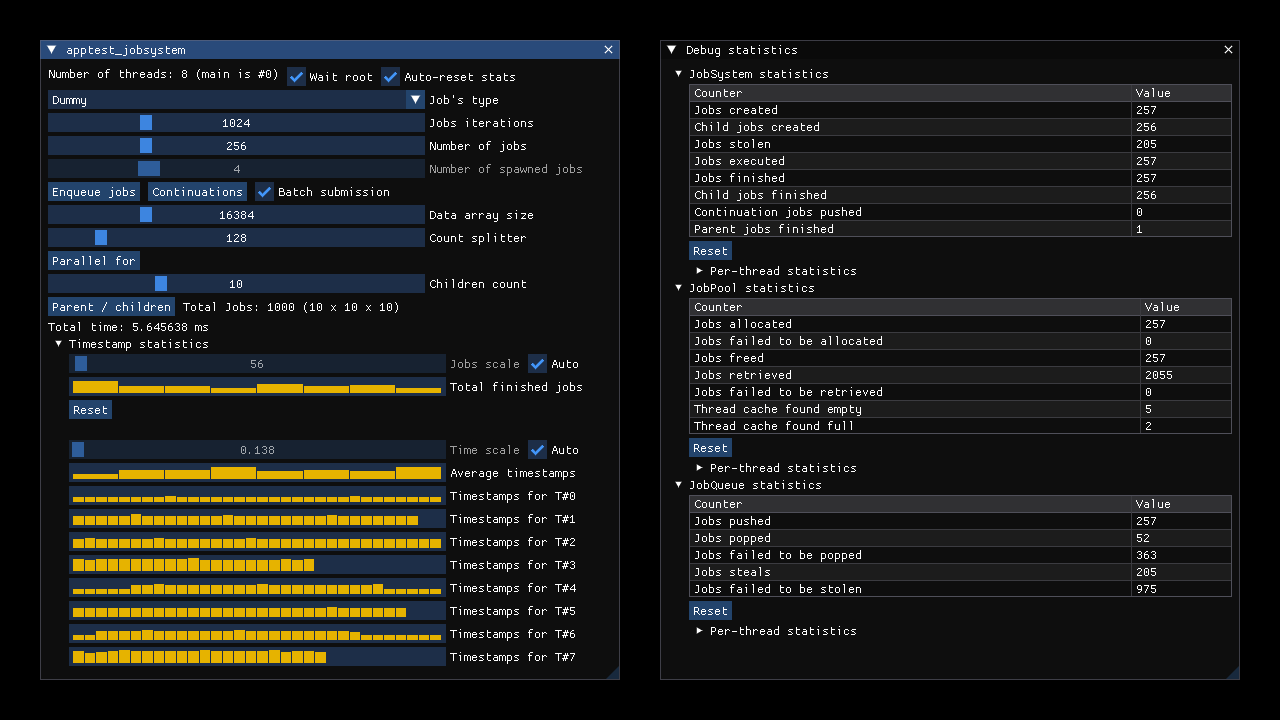
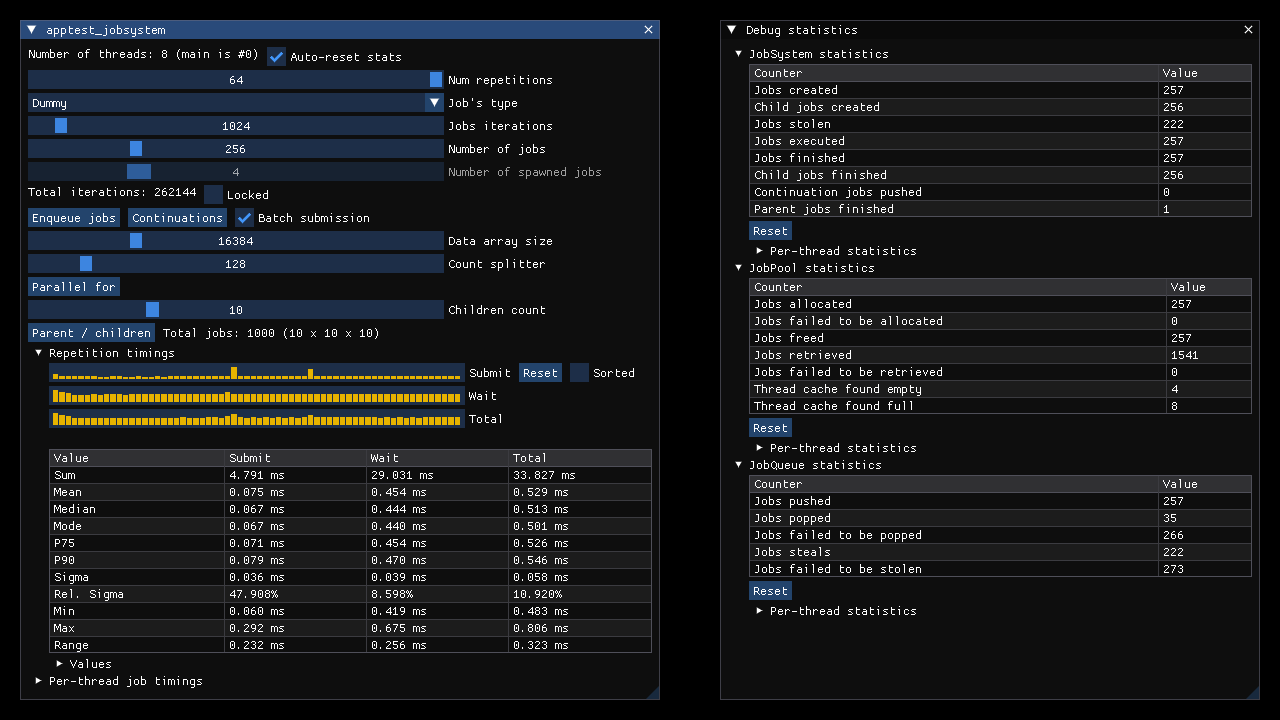
Add a GnuPG public key page and footer menu entry
- Add a news page about the /dev/games video release
- Update the yearly changelog page with latest changes
- Update the job system and SIMD bench apptest screenshots

diff --git a/content/gpg.md b/content/gpg.md
@@ -1,0 +1,40 @@
+---
+title: GnuPG Public Key
+showDate: false
+showReadingTime: false
+sharingLinks: false
+showPagination : false
+showComments: false
+---
+
+nCine's commits are signed using the author's GnuPG public key.
+
+The same key is also published on [encelo.github.io](https://encelo.github.io/gpg/), [GitHub](https://github.com/encelo.gpg), [keys.openpgp.org](https://keys.openpgp.org/vks/v1/by-fingerprint/387CDEFE8A87AEB328978C80728985A18FEE4962), and [keyserver.ubuntu.com](https://keyserver.ubuntu.com/pks/lookup?op=get&search=0x387cdefe8a87aeb328978c80728985a18fee4962).
+
+**Fingerprint**: `387C DEFE 8A87 AEB3 2897 8C80 7289 85A1 8FEE 4962`
+
+```
+-----BEGIN PGP PUBLIC KEY BLOCK-----
+
[18 lines of base64/hex data omitted]
+ale7w5HwiNr4P3FwoxtrlB5geggE
+=KP+Z
+-----END PGP PUBLIC KEY BLOCK-----
+```

diff --git a/content/changelog/year_2025.md b/content/changelog/year_2025.md
@@ -3,6 +3,40 @@ title: 2025
 date: "2025-01-01"
 ---
 
+## December 2025
+
+### Breaking Changes
+- Removed `FIXED_CAPACITY` mode from the `String` class
+
+### Improvements
+
+- Added a new `StringView` class to operate over C-style character arrays
+- The small size optimization for strings now works for strings of 24 characters long
+- It's now possible to set the resizable flag of a window after it has been created
+- Dependency libraries are now copied in all nCine and project artifacts for Linux
+- The version of the integrated Tracy has been updated to [v0.13.1](https://github.com/wolfpld/tracy/releases/tag/v0.13.1)
+
+### New Features
+
+- Added an option to compile a smaller version of the nCine library by removing support for the scenegraph
+
+## November 2025
+
+### New Features
+
+- The `job_system` branch has been finally merged into `master`
+
+### Improvements
+
+- The version of the integrated ImGui has been updated to [v1.92.5](https://github.com/ocornut/imgui/releases/tag/v1.92.5)
+- The version of the integrated Tracy has been updated to [v0.13.0](https://github.com/wolfpld/tracy/releases/tag/v0.13.0)
+
+## October 2025
+
+### Improvements
+
+- The version of the integrated ImGui has been updated to [v1.92.4](https://github.com/ocornut/imgui/releases/tag/v1.92.4)
+
 ## September 2025
 
 ### Improvements

diff --git a/content/news/2025-11-05-signed-commits.md b/content/news/2025-11-05-signed-commits.md
@@ -1,0 +1,15 @@
+---
+date: "2025-11-05"
+title: Signed Commits
+description: Verified GitHub commits for the nCine projects
+categories: [ News ]
+---
+
+Starting today, all nCine-related repositories will feature [verified commits](https://docs.github.com/en/authentication/managing-commit-signature-verification) on GitHub.
+
+This allows anyone to confirm that changes to the codebase are authentic and originate from the [project maintainer](https://encelo.github.io/).
+The signing key is published on the site and can be found at the following page: [GnuPG Public Key](/gpg).
+
+The associated private subkeys are stored on a hardware security token (a YubiKey 5C NFC), which ensures that the signing keys cannot be copied or extracted from the device.
+
+This is part of an ongoing effort to strengthen the project's supply chain integrity and provide long-term trust in the history of the repositories.

diff --git a/content/news/2025-11-19-dev-games-2025-video.md b/content/news/2025-11-19-dev-games-2025-video.md
@@ -1,0 +1,15 @@
+---
+date: "2025-06-05"
+title: Video from /dev/games
+description: My nCine presentation recording
+categories: [ News ]
+tags: [ Presentation ]
+---
+
+On June 5th I attended [/dev/games](https://devgames.org), a two-day game development conference held in Rome.
+
+Now, after five months, the recording of the talk about my 14-year journey developing nCine, has been published on YouTube on the official conference [channel](https://www.youtube.com/@devgamesconf).
+
+You can check out online the [slides](https://encelo.github.io/nCine_14Years_Presentation/) or download a [PDF version](https://encelo.github.io/nCine_14Years_Presentation/nCine_14Years.pdf).
+
+{{< youtube id="v70Ahl21TqI" loading="lazy" title="Lessons from 14 years of developing nCine, an Open-Source 2D Game Framework" >}}
